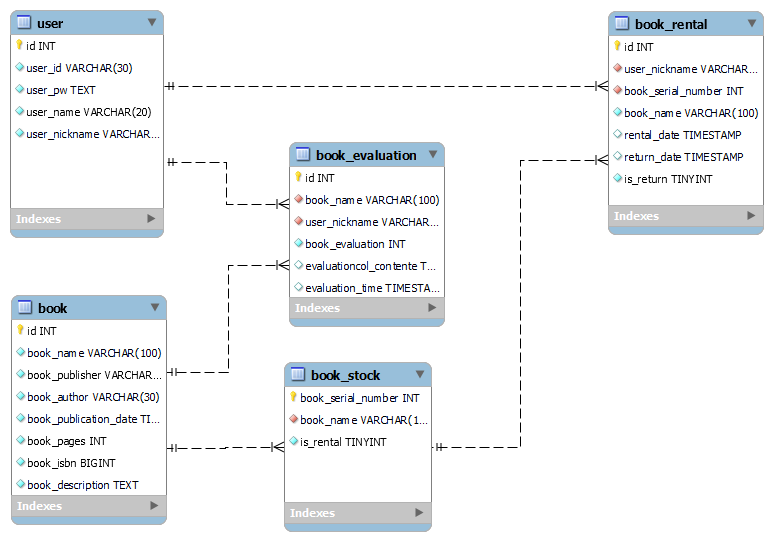
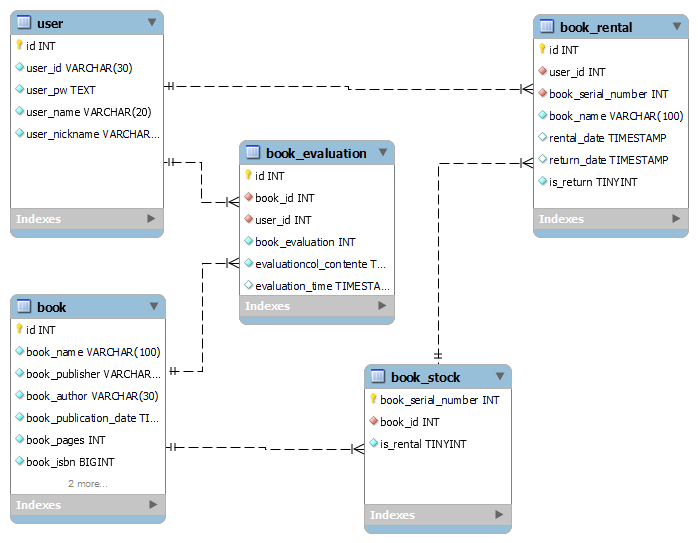
플라스크 구조화

diff --git a/flask_app/models.py b/flask_app/models.py
@@ -25,13 +25,14 @@ class User(db.Model):
 class Book(db.Model):
     __tablename__ = 'book'
     id = db.Column(db.Integer,  primary_key=True, autoincrement=True)
-    book_name = db.Column(db.String(100), nullable = False, unique=True)
+    book_name = db.Column(db.String(100), nullabl =False)
     book_publisher = db.Column(db.String(40), nullable=False)
     book_author = db.Column(db.String(30), nullable=False)
     book_publication_date = db.Column(db.DateTime, nullable=False)
-    book_pages = db.Column(db.Integer, nullable = False)
+    book_pages = db.Column(db.Integer, nullable=False)
     book_isbn = db.Column(db.BigInteger, nullable=False)
     book_description = db.Column(db.Text(), nullable=False)
+    book_link = db.Column(db.String(60), nullable=False)
     
     # 책 보유 외부키
     bookstock = db.relationship("Book_stock", backref="book")
@@ -39,7 +40,7 @@ class Book(db.Model):
     bookevaluation = db.relationship("Book_evaluation", backref="book")
     
     def __init__(self,book_name,book_publisher,book_author,book_publication_date,
-                book_pages, book_isbn, book_description):
+                book_pages,book_isbn,book_description,book_link):
         self.book_name = book_name
         self.book_publisher = book_publisher
         self.book_author = book_author
@@ -47,12 +48,13 @@ class Book(db.Model):
         self.book_pages = book_pages
         self.book_isbn = book_isbn
         self.book_description = book_description
+        self.book_link=book_link
 
 # 책 보유 정보
 class Book_stock(db.Model):
     __tablename__ = 'book_stock'
     book_serial_number = db.Column(db.Integer, primary_key=True, autoincrement=True)
-    book_name = db.Column(db.String(100), db.ForeignKey("book.book_name"), nullable = False)
+    book_id = db.Column(db.String(100), db.ForeignKey("book.id"), nullable = False)
     is_rental = db.Column(db.Boolean, nullable = False)
 
     # 대여_책 외부키
@@ -66,7 +68,7 @@ class Book_stock(db.Model):
 class Book_rental(db.Model):
     __tablename__ = 'book_rental'
     id = db.Column(db.Integer,  primary_key=True, autoincrement=True)
-    user_nickname = db.Column(db.String(30), db.ForeignKey("user.user_nickname"), 
+    user_id = db.Column(db.String(30), db.ForeignKey("user.id"), 
                             nullable = False)
     book_serial_number = db.Column(db.Integer, db.ForeignKey("book_stock.book_serial_number"), 
                             nullable = False)
@@ -86,9 +88,8 @@ class Book_rental(db.Model):
 class Book_evaluation(db.Model):
     __tablename__ = 'book_evaluation'
     id = db.Column(db.Integer, primary_key=True, autoincrement=True)
-    book_name = db.Column(db.String(100), db.ForeignKey("book.book_name"), nullable = False)
-    user_nickname = db.Column(db.String(30), db.ForeignKey("user.user_nickname"), 
-                            nullable = False)
+    book_id = db.Column(db.String(100), db.ForeignKey("book.id"), nullable = False)
+    user_id = db.Column(db.String(30), db.ForeignKey("user.id"), nullable = False)
     book_evaluation = db.Column(db.Integer, nullable = False)
     evaluation_contente = db.Column(db.Text(), nullable = False)
     evaluation_time = db.Column(db.DateTime, default=datetime.utcnow)

diff --git a/flask_app/auth.py b/flask_app/auth.py
@@ -42,7 +42,7 @@ def signup():
         if message is None:
             # 유저 테이블에 추가
 
-            pw_hash = bcrypt.generate_password_hash(user_pw)
+            pw_hash = Bcrypt.generate_password_hash(user_pw)
             
             user = User(user_id, pw_hash, user_name, user_nickname)
             db.session.add(user)
@@ -67,7 +67,7 @@ def signin():
 
             if user is None:
                 message, messageType = '등록되지 않은 계정입니다.', 'danger'
-            elif not bcrypt.check_password_hash(user.user_pw, user_pw):
+            elif not Bcrypt.check_password_hash(user.user_pw, user_pw):
                 message, messageType = '비밀번호가 틀렸습니다.', 'danger'
 
             if message is None:

diff --git a/README.md b/README.md
@@ -22,12 +22,27 @@
 
 ### 프로젝트 필요 기능
 
+- 해야할 기능
+  - 디버그 모드 추가하기
+    - [01](https://www.notion.so/Flask-chapter-2-config-c312fe6468d54bfd99198352356677e3)
+    - [02](https://wikidocs.net/81044)
+  - 프로젝트 일정 만들기
+  - 일일 회고를 보다 세밀하게
+    - 뭘 했는지, 뭘 해야하는지
+  - 외부키 전부 개인키로 바꾸기
+  - 문자열 NN 속성은 빈 문자열 넣는식으로 default값 넣기.
+  - Wiki 탬플릿 만들기
+
+***
+
 - 로그인
 - 회원가입
 - 로그아웃
 - 메인 페이지
 - 대여하기
 - 반납하기
+- 대여기록
+  - 없을경우, 있을경우 다르게 출력
 - 책 소개
 
 ***
@@ -78,9 +93,6 @@
 - DB
 
 ![002](image/DB구조.png)
-
-- table 구조
-
 
 ***
 
